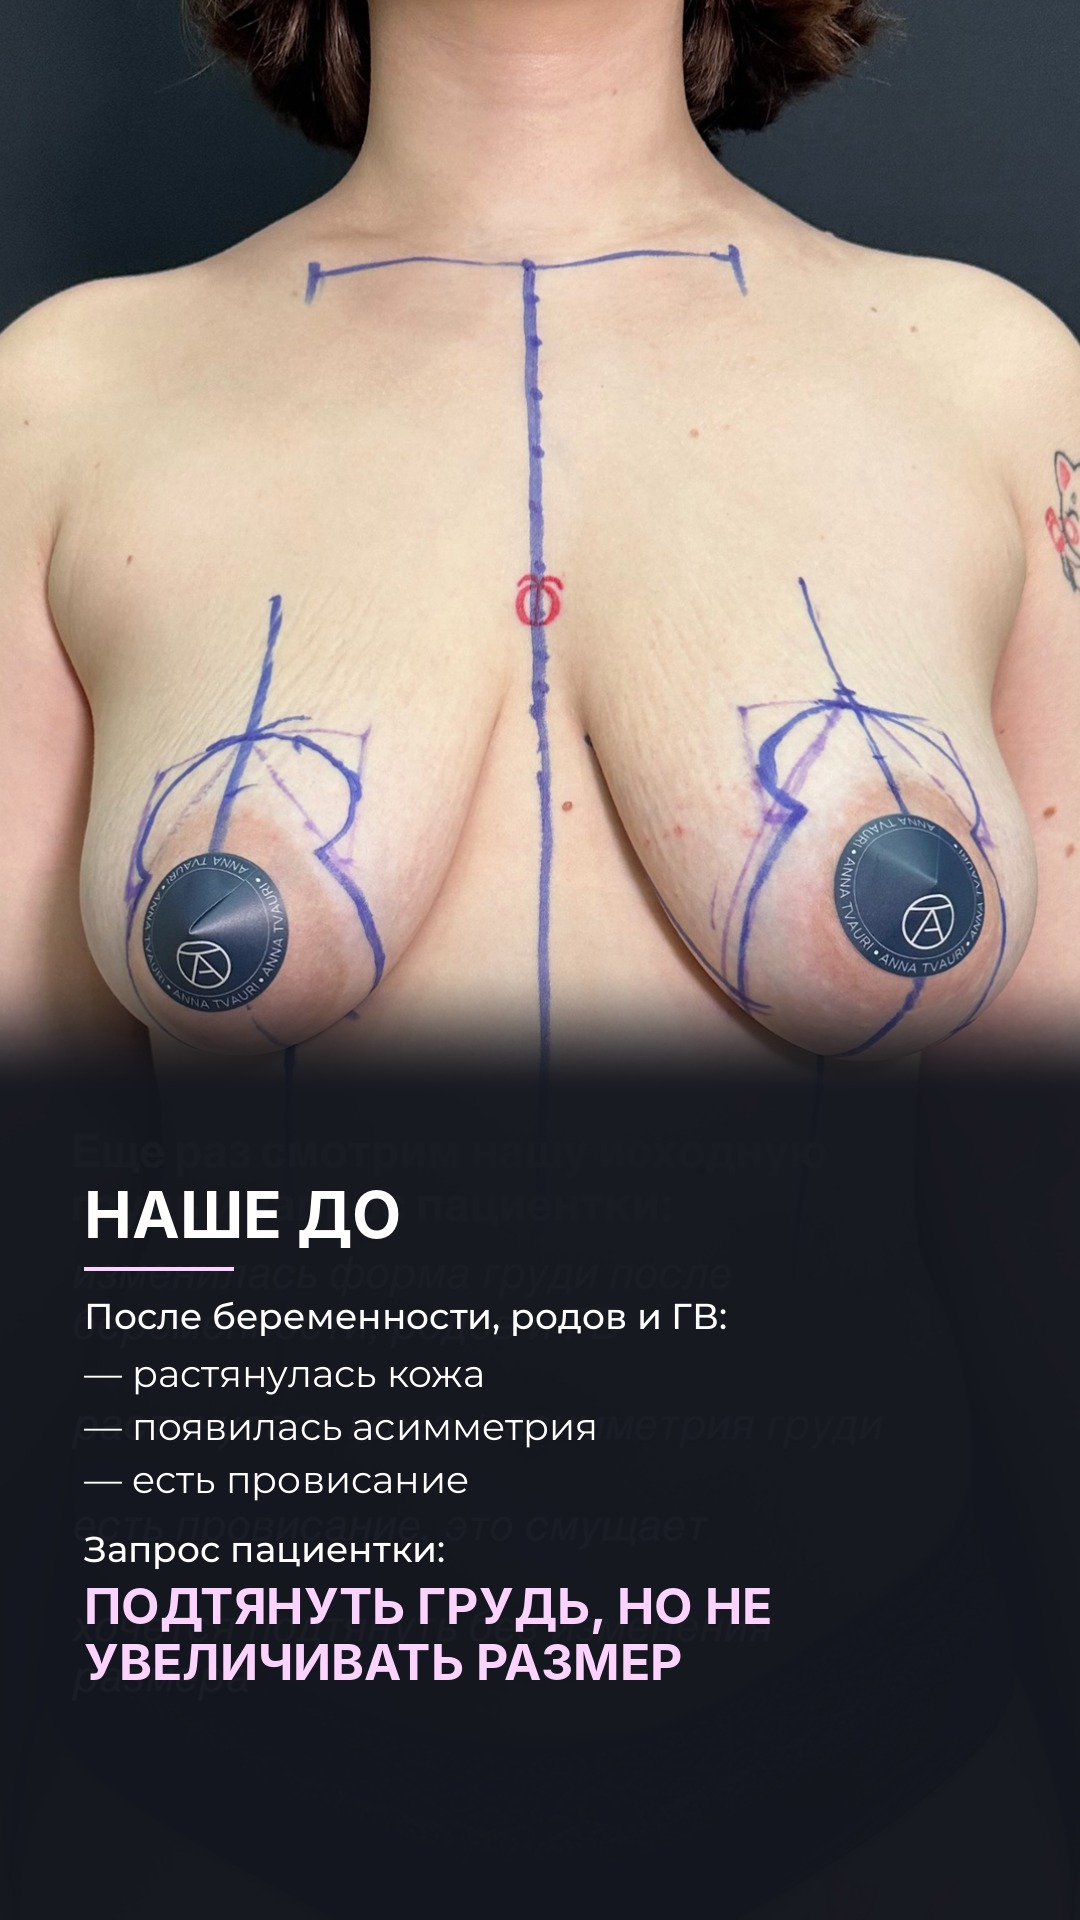
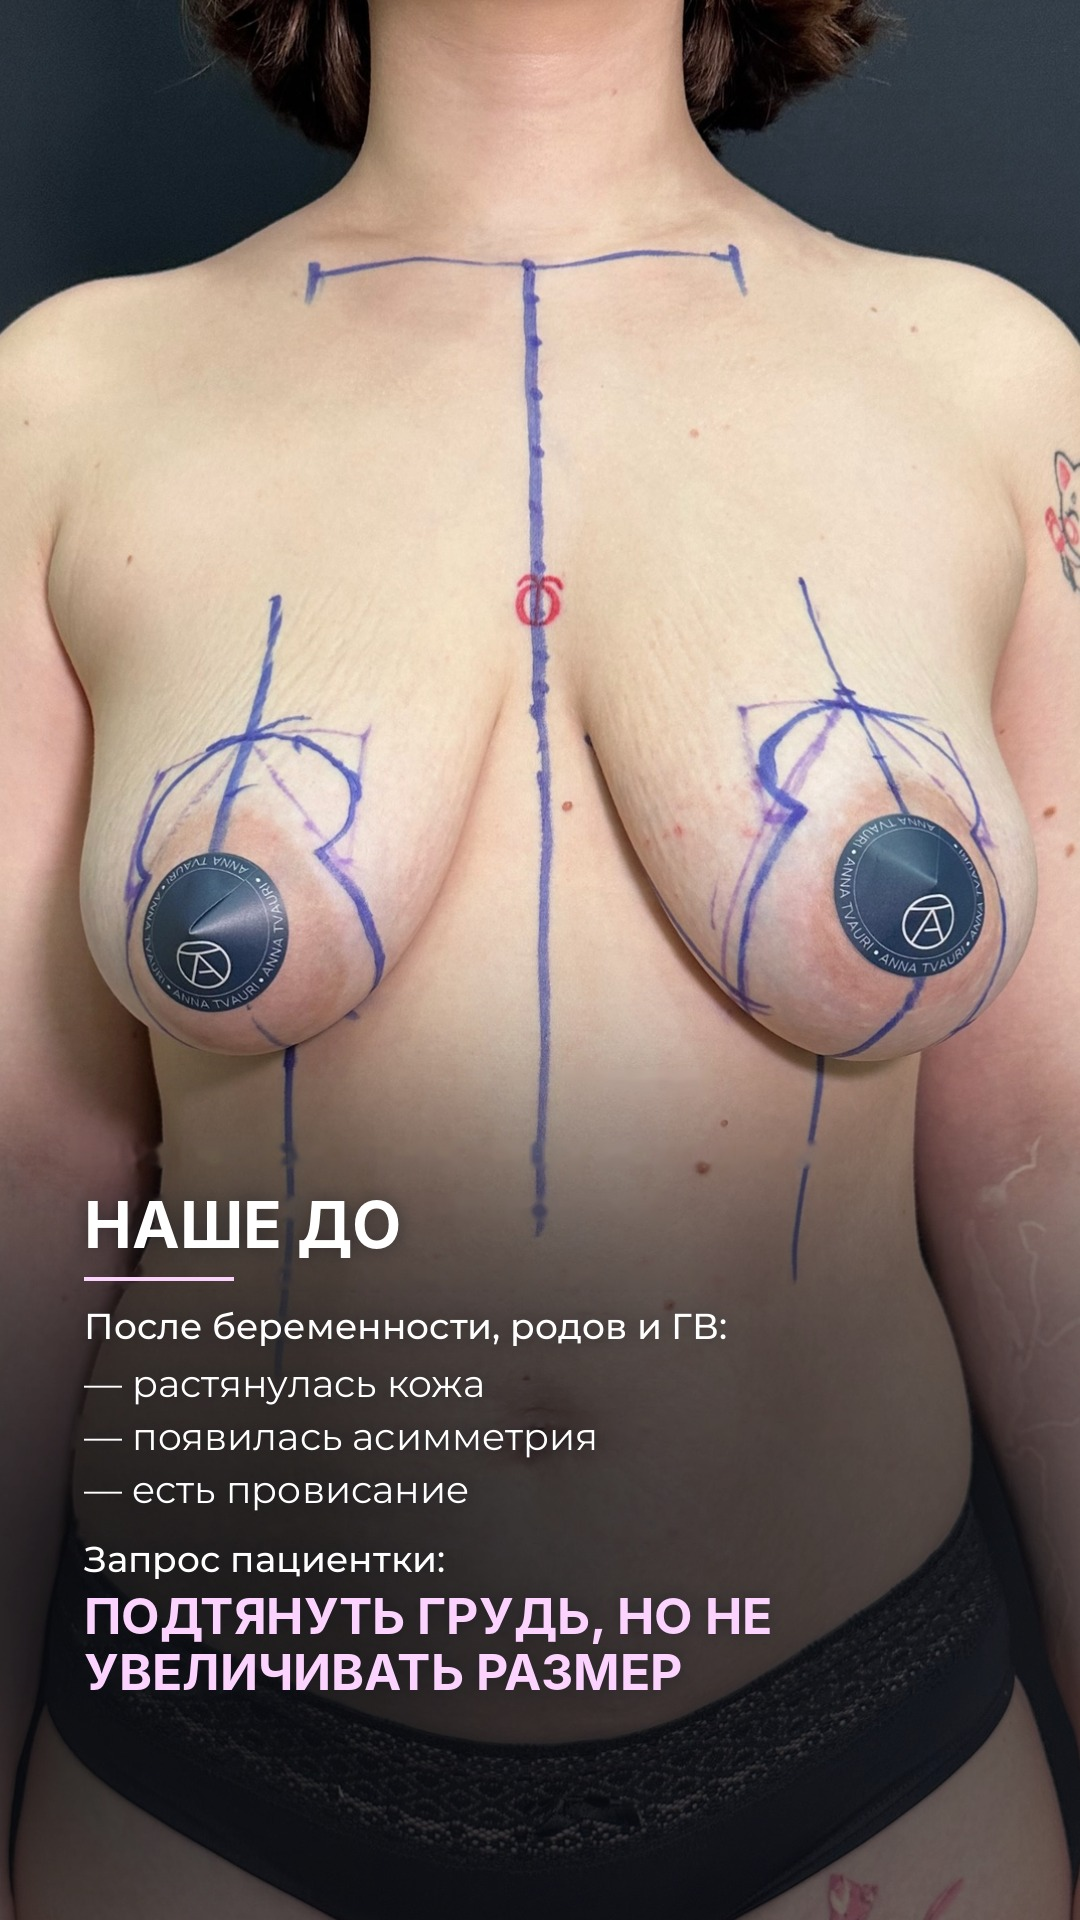
Lift without implants: original videos with tracked face blur, story 2 keeps the whole before photo
Claude-Session: https://claude.ai/code/session_01DoBoRz2HUe4yvMBz6dWv4L

diff --git a/tools/face_blur_track.py b/tools/face_blur_track.py
@@ -1,0 +1,71 @@
+"""Cut segments from a phone video, blur ONE tracked face (the patient) and write a clean intermediate clip.
+
+usage: python3 face_blur_track.py MODEL.onnx SRC OUT pick a0-b0 [a1-b1 ...]
+  pick: "top" = start from the highest face in the first frame (standing patient next to a seated doctor),
+        "big" = start from the largest face.
+Segments are joined in order; audio is cut the same way.  Missed detections hold the last box.
+"""
+import subprocess, sys, json
+import numpy as np, cv2
+
+MODEL, SRC, OUT, PICK = sys.argv[1:5]
+SEGS = [tuple(map(float, s.split("-"))) for s in sys.argv[5:]]
+
+
+def probe(path):
+    r = subprocess.run(["ffprobe", "-v", "error", "-select_streams", "v:0", "-show_entries", "stream=width,height,r_frame_rate",
+                        "-of", "json", path], capture_output=True, text=True)
+    s = json.loads(r.stdout)["streams"][0]; n, d = map(int, s["r_frame_rate"].split("/"))
+    return s["width"], s["height"], n / d
+
+
+w, h, fps = probe(SRC)
+det = cv2.FaceDetectorYN.create(MODEL, "", (w, h), 0.6, 0.3, 50)
+tmp_v = OUT + ".v.mp4"
+enc = subprocess.Popen(["ffmpeg", "-v", "error", "-y", "-f", "rawvideo", "-pix_fmt", "bgr24", "-s", f"{w}x{h}", "-r", f"{fps}",
+                        "-i", "-", "-c:v", "libx264", "-crf", "14", "-preset", "fast", "-pix_fmt", "yuv420p", tmp_v], stdin=subprocess.PIPE)
+prev = None; misses = 0
+for a, b in SEGS:
+    dec = subprocess.Popen(["ffmpeg", "-v", "error", "-ss", str(a), "-t", str(b - a), "-i", SRC, "-f", "rawvideo", "-pix_fmt", "bgr24", "-"],
+                           stdout=subprocess.PIPE)
+    while True:
+        buf = dec.stdout.read(w * h * 3)
+        if len(buf) < w * h * 3: break
+        fr = np.frombuffer(buf, np.uint8).reshape(h, w, 3).copy()
+        _, faces = det.detect(fr)
+        boxes = [] if faces is None else [f[:4] for f in faces]
+        if boxes:
+            if prev is None:
+                prev = min(boxes, key=lambda bx: bx[1]) if PICK == "top" else max(boxes, key=lambda bx: bx[2] * bx[3])
+            else:
+                c = np.array([prev[0] + prev[2] / 2, prev[1] + prev[3] / 2])
+                best = min(boxes, key=lambda bx: np.linalg.norm(np.array([bx[0] + bx[2] / 2, bx[1] + bx[3] / 2]) - c))
+                dist = np.linalg.norm(np.array([best[0] + best[2] / 2, best[1] + best[3] / 2]) - c)
+                if dist < max(prev[2], prev[3]) * 1.6 or misses > 20:
+                    prev = 0.5 * np.array(prev) + 0.5 * np.array(best); misses = 0
+                else:
+                    misses += 1
+        else:
+            misses += 1
+        if prev is not None:
+            x, y, bw, bh = prev
+            cx, cy = x + bw / 2, y + bh / 2.2
+            ax, ay = int(bw * 1.05), int(bh * 1.25)                      # generous ellipse: forehead to chin, ear to ear
+            x0, y0, x1, y1 = max(int(cx - ax), 0), max(int(cy - ay), 0), min(int(cx + ax), w), min(int(cy + ay), h)
+            if x1 > x0 and y1 > y0:
+                roi = fr[y0:y1, x0:x1]
+                small = cv2.resize(roi, (6, 8), interpolation=cv2.INTER_AREA)          # ~6x8 cells whatever the face size
+                bl = cv2.GaussianBlur(cv2.resize(small, (x1 - x0, y1 - y0), interpolation=cv2.INTER_LINEAR), (0, 0), max(8, (x1 - x0) / 12))
+                m = np.zeros((y1 - y0, x1 - x0), np.float32)
+                cv2.ellipse(m, (int(cx - x0), int(cy - y0)), (ax, ay), 0, 0, 360, 1, -1)
+                m = cv2.GaussianBlur(m, (0, 0), 6)[..., None]
+                fr[y0:y1, x0:x1] = (roi * (1 - m) + bl * m).astype(np.uint8)
+        enc.stdin.write(fr.tobytes())
+    dec.stdout.close(); dec.wait()
+enc.stdin.close(); enc.wait()
+# audio cut the same way
+parts = "".join(f"[0:a]atrim={a}:{b},asetpts=PTS-STARTPTS[a{i}];" for i, (a, b) in enumerate(SEGS))
+parts += "".join(f"[a{i}]" for i in range(len(SEGS))) + f"concat=n={len(SEGS)}:v=0:a=1[a]"
+subprocess.run(["ffmpeg", "-v", "error", "-y", "-i", tmp_v, "-i", SRC, "-filter_complex", parts.replace("[0:a]", "[1:a]"),
+                "-map", "0:v", "-map", "[a]", "-c:v", "copy", "-c:a", "aac", "-b:a", "160k", "-shortest", OUT], check=True)
+subprocess.run(["rm", "-f", tmp_v]); print("wrote", OUT)

diff --git a/tools/stories_lift_no_implants.py b/tools/stories_lift_no_implants.py
@@ -433,7 +433,7 @@ def erase_band(y0, y1, a=1.0, feather=45):
     return (a * p)[:, None, None]
 
 
-FIXES = {"грудную оскарму": "грудное вскармливание", "скупулезно": "скрупулёзно", "и нам мы ориентируемся": "и мы ориентируемся",
+FIXES = {"грудное оскармливание": "грудное вскармливание", "Оно смущало": "Смущало", "грудную оскарму": "грудное вскармливание", "скупулезно": "скрупулёзно", "и нам мы ориентируемся": "и мы ориентируемся",
          "и мне и хотелось": "и мне хотелось", "кориолы": "ареолы"}
 
 
@@ -446,8 +446,10 @@ def subs_for(name, a, b):
 
 
 # ---------------- stories ----------------
-INTERVIEW = "0e42813373954547ac49a8ff2ea1fd34.mov"
-MARKUP = "18f021a850514e05a8e8b0f08913380b.mov"
+# the originals, cut and with the patient's face tracked + blurred by tools/face_blur_track.py:
+#   interview_blur.mp4 = IMG_9126 9.2-17.7 + 61.0-77.7     markup_blur.mp4 = IMG_9112 5.6-43.7
+INTERVIEW = "interview_blur.mp4"
+MARKUP = "markup_blur.mp4"
 
 
 def s1():
@@ -462,7 +464,8 @@ def s1():
 
 
 def s2():
-    ph = load_img("05CD8279-670A-411E-9141-1CCCA2521678.jpg").resize((W, H), Image.LANCZOS)   # the old story with markup
+    # the old markup story with its old caption removed (inpainted: drive/05CD_clean.jpg) - the whole ДО stays visible
+    ph = load_img("05CD_clean.jpg").resize((W, H), Image.LANCZOS)
     col = Column(0, align="left")
     col.head("НАШЕ ДО", 0, size=64, gap=16).rule(0, gap=22)
     col.body("После беременности, родов и ГВ:", 0, size=36, wght=500, gap=10)
@@ -471,21 +474,19 @@ def s2():
     col.space(18)
     col.body("Запрос пациентки:", 0, size=36, wght=500, gap=6)
     col.head("ПОДТЯНУТЬ ГРУДЬ, НО НЕ УВЕЛИЧИВАТЬ РАЗМЕР", 0, size=50, col=LILAC, gap=0)
-    low(col, 1690)
+    col.to_bottom(1700)
     print("s2 top", col.top)
-    # the old caption (lower left, from ~57% of the height) disappears under an opaque graphite fade
-    ys = np.arange(H, dtype=np.float32); p = np.clip((ys - 0.50 * H) / (0.07 * H), 0, 1); p = p * p * (3 - 2 * p)
-    render(2, "nashe_do", 10.0, still_bg(ph, z1=1.03, zc=(0.5, 0.2)), col.items, shade=(0.97 * p)[:, None, None])
+    render(2, "nashe_do", 10.0, still_bg(ph, z1=1.03, zc=(0.5, 0.2)), col.items, shade=bottom_shade(col.top - 200, 0.42))
 
 
 def s3():
-    a, b = 0.0, 21.6
+    a, b = 0.0, 25.2
     c = Clip(INTERVIEW, a, b, zoom=(1.0, 1.03), zc=(0.5, 0.3))
     col = Column(0, align="center")
     col.head("«ХОЧУ ВЕРНУТЬ ФОРМУ, НО НЕ ХОЧУ БОЛЬШЕ ГРУДЬ»", 0, size=60, gap=0)
-    col.to_bottom(1560)
-    render(3, "ne_hochu_bolshe", b - a, clip_bg(c), col.items, shade=erase_band(1340, 1860), subs=subs_for(INTERVIEW, a, b),
-           audio=(INTERVIEW, a, b))
+    col.to_bottom(1540)
+    render(3, "ne_hochu_bolshe", b - a, clip_bg(c), col.items, shade=bottom_shade(col.top - 260, 0.8),
+           subs=subs_for(INTERVIEW, a, b), audio=(INTERVIEW, a, b))
 
 
 def s4():
@@ -503,14 +504,14 @@ def s4():
 
 
 def s5():
-    a, b = 0.0, 26.9
+    a, b = 0.0, 38.1
     c = Clip(MARKUP, a, b, zoom=(1.0, 1.03), zc=(0.5, 0.3))
-    col = Column(0, align="center")
+    col = Column(0, align="left")
     col.head("ЭТИ ЛИНИИ НЕ ПРОСТО РИСУНОК ПЕРЕД ОПЕРАЦИЕЙ", 0, size=54, gap=16).rule(0, gap=18)
     col.body("Здесь уже начинается планирование будущей формы груди.", 0, size=36, gap=0)
-    col.to_bottom(1520)
+    col.to_bottom(1540)
     print("s5 top", col.top)
-    render(5, "ne_prosto_risunok", b - a, clip_bg(c), col.items, shade=erase_band(1110, 1620),
+    render(5, "ne_prosto_risunok", b - a, clip_bg(c), col.items, shade=bottom_shade(col.top - 260, 0.82),
            subs=subs_for(MARKUP, a, b), audio=(MARKUP, a, b))
 
 

diff --git a/stories_lift_no_implants/README.md b/stories_lift_no_implants/README.md
@@ -6,12 +6,12 @@
 | № | Файл | Фон | Звук | Стикер в Instagram |
 |---|------|-----|------|--------------------|
 | 1 | 01_vernut_formu | фото ДО с разметкой (IMG_7887), кадр ниже подбородка | нет | **Опрос** внизу: «Что беспокоит больше?» — Форма / Объём |
-| 2 | 02_nashe_do | ваша старая сторис с разметкой, старый текст закрыт, новый внизу | нет | — |
-| 3 | 03_ne_hochu_bolshe | интервью пациентки (0e42…), вся речь | голос + субтитры | — |
+| 2 | 02_nashe_do | ваша старая сторис с разметкой: старая подпись стёрта, ДО видно целиком, новый текст на животе | нет | — |
+| 3 | 03_ne_hochu_bolshe | оригинал интервью IMG_9126: 0:09–0:18 + 1:01–1:18, лицо размыто | голос + субтитры | — |
 | 4 | 04_nuzhny_li_implanty | фото разметки 3/4 (IMG_7888), лицо за кадром | нет | **Опрос** под текстом: «Если объёма хватает, вы бы выбрали:» — Только подтяжку / Добавила бы объём |
-| 5 | 05_ne_prosto_risunok | хирург делает разметку (18f0…), 0:00–0:27 | голос + субтитры | — |
+| 5 | 05_ne_prosto_risunok | оригинал разметки IMG_9112: 0:06–0:44, лицо пациентки размыто | голос + субтитры | — |
 | 6 | 06_raznaya_podtyazhka | крупный план разметки (IMG_9121), лицо за кадром | нет | — |
 | 7 | 07_konsultaciya | фото хирурга (IMG_7246, раньше не использовалось) | нет | по желанию — ссылка на актуальное «Рубцы» |
 
-В старых видео (3, 5) вшитые подписи прошлых сторис закрыты тёмной полосой, на ней — новый текст; субтитры новые, по речи.
+Сторис 3 и 5 собраны из оригиналов без старых подписей; лицо пациентки отслеживается и размывается покадрово (tools/face_blur_track.py), субтитры новые, по речи.
 Видео «проход в операционную» (535c…) не вошло: в нём крупно вшит старый текст по центру кадра и низкое качество — для 7-й сторис взято неиспользованное фото хирурга.
